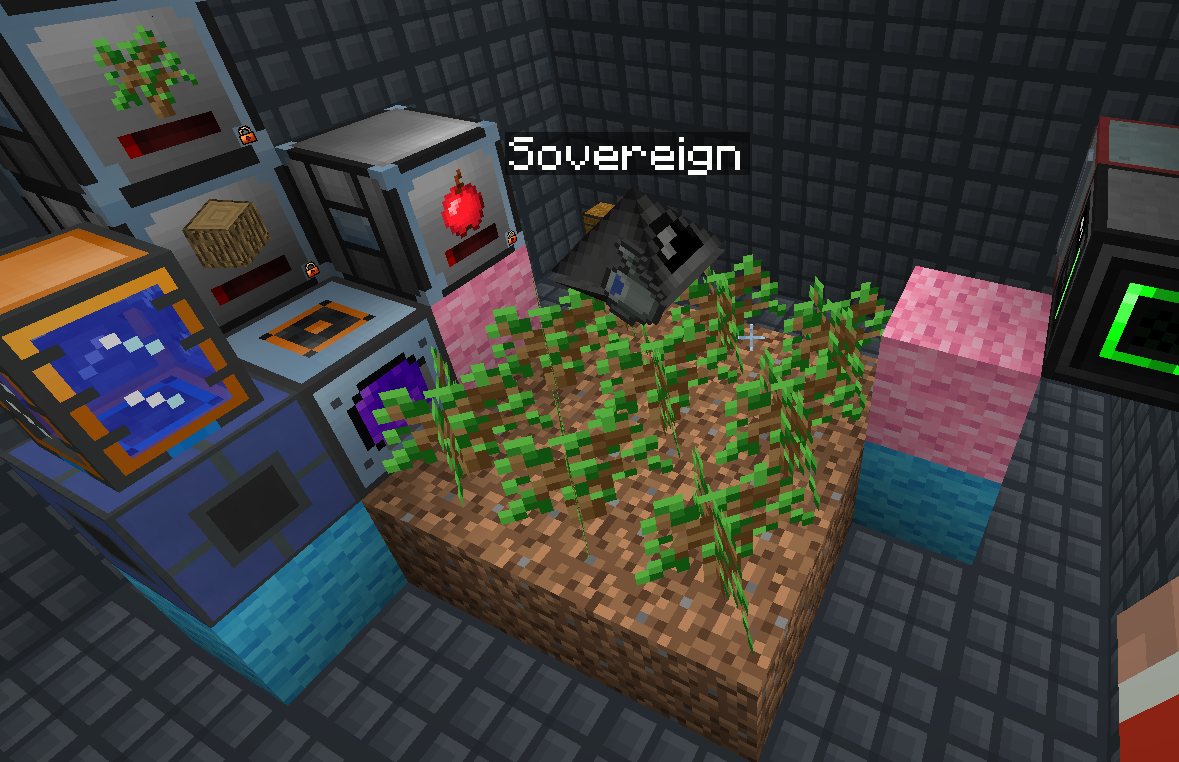
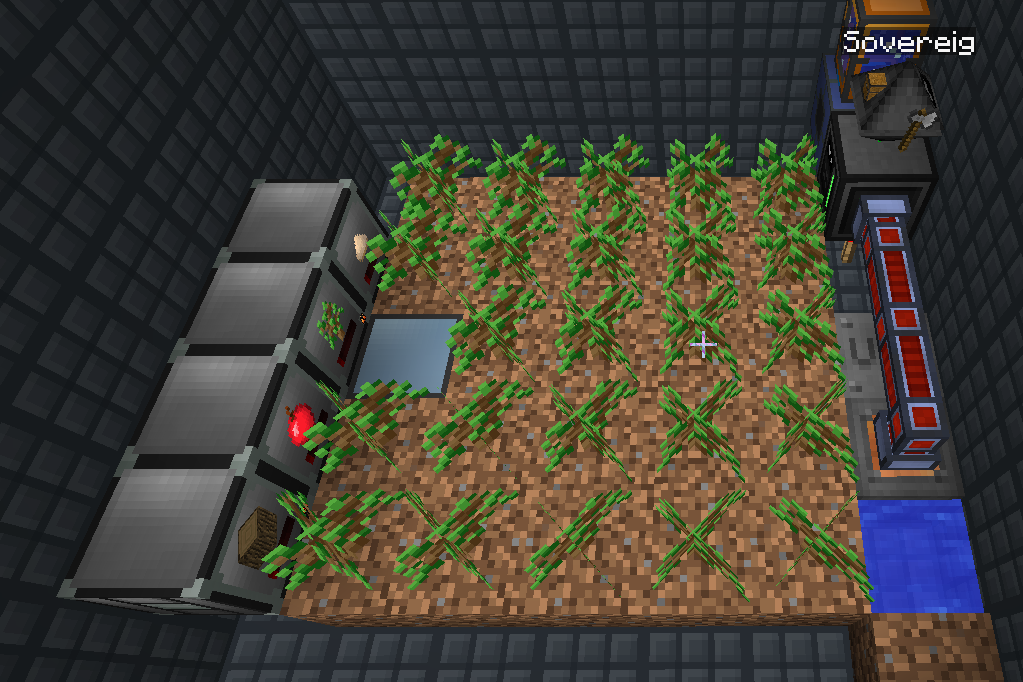
Tree farm 5x5

diff --git a/README.md b/README.md
@@ -59,15 +59,19 @@ cat > my_script.lua
 
 Установите блоки согласно схеме:
 
-1. Поле земли 3х3 в центре комнаты.
-2. В правом верхнем углу на высоте двух блоков от пола Charger и робот (смотрит на Charger).
-3. В противоположном углу:
-   * На высоте одного блока от пола Vacuumulator с выдачей ресурсов вверх (для сбора выпадающих ростков и яблок).
-   * Уровнем выше: слева Portable Tank (который стоит на Compact Infinite Water Source), по центру хранилище для дерева, 
-     справа хранилище для яблок.
-   * Над хранилищем дерева находится хранилище ростков.
+1. Поле земли 5х5 в центре комнаты.
+2. В правом верхнем углу на высоте блока от пола бесконечный Compact Infinite Water Source, на котором
+   стоит Portable Tank.
+3. Справа от Portable Tank находится Charger, под которым находится источник редстоуна.
+4. На Charger'е установлен робот, который смотрит в стену.
+5. На противоположной стороне от робота:
+   * В центре последнего ряда земли стоит Vacuumulator с выводом ресурсов через трубы сзади.
+   * На трубе позади Vacuumulator'а находится кэш с ростками.
+   * По бокам от кэша с ростками установите хранилища для дерева, яблок и опилок в произвольном порядке.
 
 ![Tree farm](tree-farm/tree_farm_scheme.png)
+
+![Tree farm](tree-farm/tree_farm_scheme_2.png)
 
 Скопируйте [код программы](tree-farm/tree_farm.lua) в буфер обмена, включите робота и в терминале введите:
 
@@ -76,7 +80,11 @@ cat > tree_farm.lua
 ```
 
 Затем нажмите клавишу `Insert`, чтобы вставить текст программы. Как только вставка закончится, нажмите
-`Ctrl + D`, чтобы завершить операцию. После этого можно запускать программу:
+`Ctrl + D`, чтобы завершить операцию. 
+
+Перед запуском робота положите ему в инвентарь лейку (в режиме 5х5), 24 ростка и несколько любых топоров.
+
+После этого можно запускать программу:
 
 ```
 ./tree_farm.lua
@@ -88,6 +96,6 @@ cat > tree_farm.lua
 * Если дерево будет забираться из хранилища, то нужно заблокировать тип хранимого материала (поставить 
   замок `Shift + Right click` свободной рукой по кэшу).
 * Если источник воды не будет успевать наполнять Tank, то производительность фермы сильно упадёт.
-* Робот не использует топоры для рубки дерева (производительности и так хватает, плюс не требуется обслуживание).
-
-![Tree farm](tree-farm/tree_farm_scheme_2.png)
+* Робот использует топоры для рубки дерева, но если они закончатся, то он будет продолжать рубить голыми руками,
+  пока в инвентарь не положат ещё топоров.
+* Робот может работать и без лейки, но это совсем грустная история.
